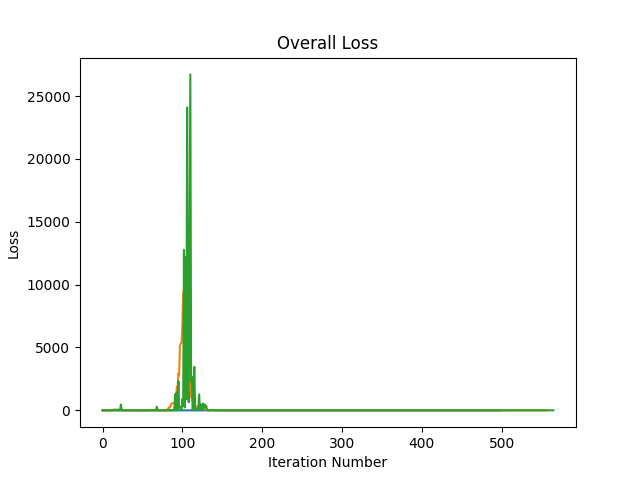
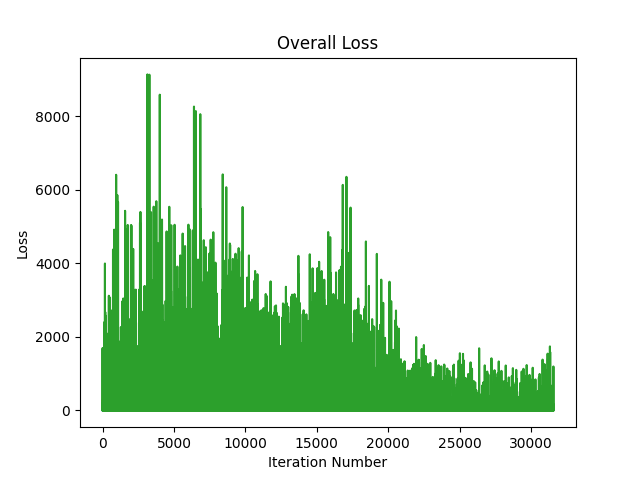
Added different reward models to cliff walking. Fixed hyperparameter tuning. Generated graphs for dqn and camera models.

diff --git a/Grammar_Demo/models/DQNAgent.py b/Grammar_Demo/models/DQNAgent.py
@@ -47,6 +47,11 @@ class DQNAgent(Agent):
             input_size= (x2-x1+1) + (z2-z1+1)
                 + len(logicState.actions) + len(logicState.triggers),
             num_actions=len(self.move_actions) + len(logicState.actions),
+            discount_factor = 0.9,
+            epsilon = 0.2,
+            epsilon_decay = 0.99,
+            learning_rate = 0.0005,
+            clip = 1,
             load_path='cache/dqn.pkl',
             save_path='cache/dqn.pkl',
             verbose=self.verbose)
@@ -94,7 +99,6 @@ class DQNAgent(Agent):
         Same as act method but also returns action taken
         Required to implement because of Agent definition
         """
-
         # Set malmo system to current world state
         self.setState(world_state)
         try:
@@ -104,12 +108,13 @@ class DQNAgent(Agent):
             return 0
         self.logger.debug("\n Full Observation: " + str(obs))
 
-
-        current_state = self.getState()
-        allActions = self.move_actions + self.getActionSpace()
+        # Get state and all possible actions
+        current_state = self.host.state.getStateEmbedding()
+        logicalActions = self.host.state.getApplicableActions()
+        allActions = self.move_actions + logicalActions
         self.logger.debug("\n State: %s (x = %.2f, z = %.2f)" % (current_state, float(obs[u'XPos']), float(obs[u'ZPos'])))
 
-        # update Q values
+        # update Q values and run neural net
         if self.prev_state is None or self.prev_action is None:
             action = self.learner.querysetstate(current_state)
         else:
@@ -117,7 +122,6 @@ class DQNAgent(Agent):
             self.learner.run_dyna()
 
         if self.verbose: self.draw_QTable( curr_x = int(obs[u'XPos']), curr_y = int(obs[u'ZPos']) )
-
         self.logger.info("\n Taking q action: %s" % allActions[action % len(allActions)])
 
         # try to send the selected action, only update prev_s if this succeeds
@@ -128,7 +132,7 @@ class DQNAgent(Agent):
         except RuntimeError as e:
             self.logger.error("\n Failed to send command: %s" % e)
 
-        return allActions[action], current_reward
+        return allActions[action % len(allActions)], current_reward
 
     def act(self, world_state, current_reward):
         """take 1 action in response to the current world state"""
@@ -183,6 +187,7 @@ class DQNAgent(Agent):
         while world_state.is_mission_running:
 
             current_reward = 0
+            # actionString = ""
 
             if is_first_action:
                 self.host.resetState()
@@ -195,9 +200,15 @@ class DQNAgent(Agent):
                     #accumulate reward for current state
                     for reward in world_state.rewards:
                         current_reward += reward.getValue()
+                    # print(current_reward)
                     current_reward += self.host.rewardValue()
+                    # print(current_reward)
                     # if running and have observations, act on state and set total reward to curr reward
                     if world_state.is_mission_running and len(world_state.observations)>0 and not world_state.observations[-1].text=="{}":
+                        # action, reward = self.queryActions(world_state, current_reward)
+                        # total_reward += reward
+                        # actionString += str(action)
+                        # actionString += ", "
                         total_reward += self.act(world_state, current_reward)
                         break
                     if not world_state.is_mission_running:
@@ -212,7 +223,9 @@ class DQNAgent(Agent):
                         self.logger.error("Error: %s" % error.text)
                     for reward in world_state.rewards:
                         current_reward += reward.getValue()
+                    # print(current_reward)
                     current_reward += self.host.rewardValue()
+                    # print(current_reward)
 
                 # allow time to stabilise after action
                 while True:
@@ -222,13 +235,24 @@ class DQNAgent(Agent):
                         self.logger.error("Error: %s" % error.text)
                     for reward in world_state.rewards:
                         current_reward += reward.getValue()
+                    # print(current_reward)
                     current_reward += self.host.rewardValue()
+                    # print(current_reward)
                     # if running and have observations, act on state and set total reward to curr reward
                     if world_state.is_mission_running and len(world_state.observations)>0 and not world_state.observations[-1].text=="{}":
+                        # action, reward = self.queryActions(world_state, current_reward)
+                        # total_reward += reward
+                        # actionString += str(action)
+                        # actionString += ", "
                         total_reward += self.act(world_state, current_reward)
                         break
                     if not world_state.is_mission_running:
                         break
+            
+            # if len(actionString) > 13:
+            #     print(actionString)
+            #     input("Continue...")
+            #     actionString = ""
 
         # process final reward
         self.logger.debug("Final reward: %d" % current_reward)

diff --git a/Grammar_Demo/models/DeepQLearner.py b/Grammar_Demo/models/DeepQLearner.py
@@ -68,12 +68,11 @@ class DeepQLearner(object):
     def __init__(self, \
         input_size = 31, \
         num_actions = 2, \
-        alpha = 0.2, \
-        discount_factor = 0.5, \
+        discount_factor = 0.9, \
         epsilon = 0.2, \
-        epsilon_decay = 1, \
+        epsilon_decay = 0.99, \
         clip = 1, \
-        learning_rate = 0.2, \
+        learning_rate = 0.0002, \
         load_path = None, \
         save_path = None, \
         camera = False, \
@@ -85,7 +84,6 @@ class DeepQLearner(object):
         self.state = [0] * input_size
         self.action = 0
 
-        self.alpha = alpha # not used at all
         self.discount_factor = discount_factor
         self.epsilon = epsilon
         self.epsilon_decay = epsilon_decay
@@ -292,7 +290,7 @@ class DeepQLearner(object):
         plt.title("Average of loss across " + str(prices_length) + " iterations")
         if self.verbose: plt.show()
         if self.camera:
-            plt.savefig("./graphs/dynaCameraDQN_Avg_Loss_graph.png")
+            plt.savefig("./graphs/CameraDQN_Avg_Loss_graph.png")
         else:
             plt.savefig("./graphs/DQN_Avg_Loss_graph.png")
 
@@ -302,7 +300,7 @@ class DeepQLearner(object):
         plt.title("Overall Loss")
         if self.verbose: plt.show()
         if self.camera:
-            plt.savefig("./graphs/dynaCameraDQN_Loss_graph.png")
+            plt.savefig("./graphs/CameraDQN_Loss_graph.png")
         else:
             plt.savefig("./graphs/DQN_Loss_graph.png")
 

diff --git a/Grammar_Demo/models/CameraDQNAgent.py b/Grammar_Demo/models/CameraDQNAgent.py
@@ -45,15 +45,18 @@ class CameraDQNAgent(Agent):
         logicState = agentHost.state
         self.move_actions = ["movenorth 1", "movesouth 1", "movewest 1", "moveeast 1"]
         (x1, y1, z1), (x2, y2, z2) = logicState.world_bounds.roundPosition()
-        self.dyna_rate = 0.95
+
+
+        self.dyna_rate = 0.7
         self.counter = 0
-        self.gamma = 0.9
         self.learner = DeepQLearner(
             input_size = 31,
-            discount_factor=self.gamma,
-            epsilon=0.1,
+            num_actions=len(self.move_actions) + len(logicState.actions),
+            discount_factor = 0.98,
+            epsilon = 0.2,
+            epsilon_decay = 0.99,
             learning_rate = 0.0005,
-            clip = 0.2,
+            clip = 1,
             load_path='cache/camera_dqn.pkl',
             save_path='cache/camera_dqn.pkl',
             camera=True,

diff --git a/Grammar_Demo/grammar_api.py b/Grammar_Demo/grammar_api.py
@@ -234,7 +234,7 @@ class GrammarMission:
         elif type(self.agent) == DQNAgent:
             plt.savefig("./graphs/DQN_Reward_graph.png")
         elif type(self.agent) == CameraDQNAgent:
-            plt.savefig("./graphs/dynaCameraDQN_Reward_graph.png")
+            plt.savefig("./graphs/CameraDQN_Reward_graph.png")
 
     '''
     @summary: Runs the current mission
